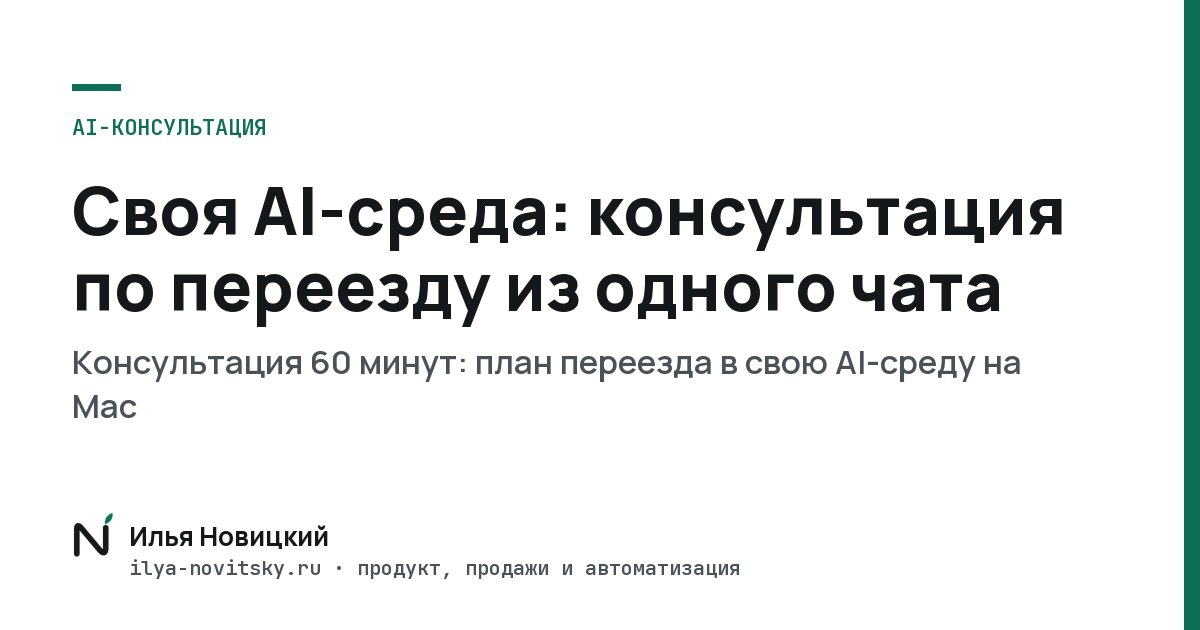
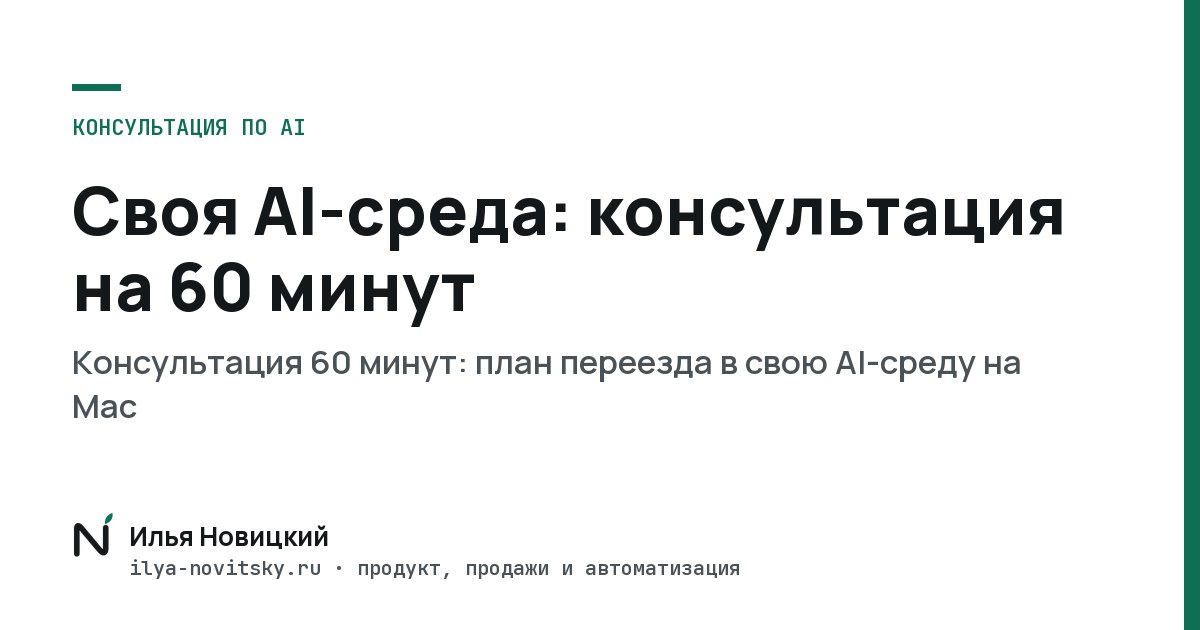
Прогонка сайта по v8: 34 правки (без обесценивания, без абсолютов, обещания по работе, «вы», без бесплатной работы), «Своя AI-среда» в поиске для обеих аудиторий; в меню «Консультация по AI» (#131)

Changed region(s): [[0.0617, 0.3921, 0.8325, 0.5127], [0.0617, 0.181, 0.2775, 0.2111]]

diff --git a/content/pages/kak-my-rabotaem.ts b/content/pages/kak-my-rabotaem.ts
@@ -29,7 +29,7 @@ export const steps: ({ id: string; title: string; meta: string; lead: string; pr
 		label: "Чертёж системы",
 		h2: "План, по которому строят, а не переделывают",
 		lead: "Вы видите, как будет работать система и сколько она стоит, ещё до разработки. Чертёж ваш: строить по нему можно со мной или без меня.",
-		gets: { label: "На руках: документ проекта", items: ["разбор задачи: для кого это, зачем и как будет зарабатывать;", "схема: из каких частей состоит система и как они связаны;", "что строить и в каком порядке, со сроками;", "экономика: сколько вложить, на чём зарабатывать и расчёт окупаемости;", "для продукта: макет, по которому можно пройти и показать клиентам до разработки;", "план сборки, который можно отдать любому исполнителю."] },
+		gets: { label: "На руках: документ проекта", items: ["разбор задачи: для кого это, зачем и как будет зарабатывать;", "схема: из каких частей состоит система и как они связаны;", "что строить и в каком порядке, со сроками;", "экономика: сколько вложить, на чём зарабатывать и расчёт окупаемости;", "для продукта: макет, по которому можно пройти и показать клиентам до разработки;", "план сборки, который можно отдать другому исполнителю."] },
 		how: { label: "Как проходит", steps: [{ b: "Неделя 1.", t: "Разговоры, доступы, разбор того, что есть, и рынка." }, { b: "Неделя 2.", t: "Решения, экономика и прототип, если речь о продукте." }, { b: "Неделя 3.", t: "Если объём большой: правки и итоговый созвон." }], note: "Каждый шаг виден в документе проекта, и дальше идём только после вашего «ок»." },
 		need: "два-три разговора, ответы на вопросы, доступы и ваше решение на каждом шаге.",
 		fitTitle: "Подойдёт, если",
@@ -47,7 +47,7 @@ export const steps: ({ id: string; title: string; meta: string; lead: string; pr
 		lead: "Спроектированное запускается и развивается дальше: продукт, система продаж, автоматизация. Строю сам, поэтому между идеей и результатом нет цепочки исполнителей.",
 		gets: { label: "Что получаете", items: ["запуск того, что спроектировали: продукт, сайт, путь клиента до оплаты, CRM и автоматизация;", "доработки и новые функции по мере роста;", "итоги месяца в цифрах и цели на следующий."], example: "[Как ведение выглядит на примере →](/primer-chertezha#vedenie)" },
 		how: { label: "Границы роли", steps: [{ b: "Работаем как партнёры, инициатива с моей стороны.", t: "Цели на месяц ставим вместе. Я сам предлагаю следующие шаги, а ваши идеи и задачи с радостью обсуждаем и штурмим вместе." }, { b: "Один плановый созвон в неделю.", t: "Остальное в переписке, связь в рабочие дни." }, { b: "Объём роли записан в договоре.", t: "Нужно больше, расширяем роль, а не считаем часы." }, { b: "Беру одного клиента на ведение.", t: "Другую часть недели занимают свои продукты." }] },
-		need: "решения по ключевым вопросам, доступы и ваша экспертиза о продукте. Идеи и задачи приносите в любой момент.",
+		need: "решения по ключевым вопросам, доступы и ваша экспертиза о продукте. Идеи и задачи приносите, когда появятся: обсудим на созвоне или в переписке.",
 		fitTitle: "Подойдёт, если",
 		fit: ["есть чертёж или готовый план, и пора его внедрять;", "система уже работает, а развивать её некому;", "нужен человек, который и продукт развивает, и систему продаж строит, а нанимать двоих в штат рано."],
 		notTitle: "Чего не будет",
@@ -97,7 +97,7 @@ export const process = typo({
 			{ title: "Продукт", desc: "От макета до работающей версии и доработок по мере роста.", items: ["макет и первая версия продукта", "приложение или веб-сервис", "AI-ассистент для клиентов"] },
 			{ title: "Как вас видят", desc: "Чтобы клиент сразу понимал, что вы продаёте и почему вам.", items: ["сайт и лендинги", "контент-план и тексты", "автопубликация постов и рилсов"] },
 			{ title: "Путь клиента до оплаты", desc: "Чтобы заявка не терялась по дороге и клиент возвращался.", items: ["CRM и воронка продаж", "Telegram-бот и обработка заявок", "рассылки и напоминания", "повторные продажи"] },
-			{ title: "Цифры и автоматизация", desc: "Чтобы решения принимались по данным, а рутина шла сама.", items: ["аналитика и отчёты", "разбор трафика", "автоматизация рутины"] },
+			{ title: "Цифры и автоматизация", desc: "Чтобы вы решали по цифрам, а рутина шла сама.", items: ["аналитика и отчёты", "разбор трафика", "автоматизация рутины"] },
 		],
 	},
 	final: {

diff --git a/content/pages/home.ts b/content/pages/home.ts
@@ -52,7 +52,7 @@ export const home = typo({
 		lead: "Рутина держится на вас, а подрядчики делают каждый своё. Свести всё вместе и проверить, работает ли, тоже приходится вам.",
 		cards: [
 			{ title: "Всё держится на вас", text: "Без вас не уходит ни одно предложение и не собирается ни один отчёт. Заявки теряются в чатах, а до автоматизации не доходят руки.", punch: "Текучка съедает день, а то, что двигает бизнес вперёд, откладывается на потом.", stat: { num: "43%", t: "владельцев малого и среднего бизнеса тратят на операционку и бумаги больше 4 часов в день" } },
-			{ title: "Каждый делает своё, а вместе не работает", text: "Вы раздаёте задачи подрядчикам: сайт студии, тексты фрилансеру, бота третьему. А каждый отвечает только за свою часть и продаёт своё.", punch: "Рутины не стало меньше: теперь это рутина управления подрядчиками.", stat: { num: "58%", t: "рабочего времени в компаниях уходит на согласования, поиск файлов и статусы, а не на саму работу" } },
+			{ title: "Каждый делает своё, а вместе не работает", text: "Вы раздаёте задачи подрядчикам: сайт студии, тексты фрилансеру, бота третьему. А каждый отвечает только за свою часть.", punch: "Рутины не стало меньше: теперь это рутина управления подрядчиками.", stat: { num: "58%", t: "рабочего времени в компаниях уходит на согласования, поиск файлов и статусы, а не на саму работу" } },
 			{ title: "Продукт сделали, а платящих клиентов нет", text: "Месяцы разработки и зарплат, запуск, а люди заходят и уходят. Непонятно, что не так: продукт, цена или проблема, которая никого не волнует.", punch: "Это можно было проверить до разработки, быстрее и дешевле.", stat: { num: "42%", t: "закрывшихся стартапов называют главной причиной то, что продукт не нужен рынку" } },
 			{ title: "Идея есть, но непонятно, что строить первым", text: "Хочется новый продукт, сервис или направление, но сколько это стоит, кому продавать и с чего начать, ясности нет.", punch: "Поэтому решение откладывается, и всё остаётся как есть." },
 		],
@@ -130,8 +130,8 @@ export const home = typo({
 			{ label: "AI-инструменты · черновая работа", title: "Как сделать быстро", items: ["исследование рынка и отзывов клиентов", "черновики текстов и прототипы", "типовые ответы, отчёты, сбор данных", "процессы, которые одинаково работают на 10 и на 1000 клиентов"] },
 			{ label: "Вы получаете", title: "Проверенная работа", items: ["каждый шаг проверен человеком, а не нейросетью", "меньше переделок: тупики видно заранее", "оплата за готовый этап, без почасовки"], me: true },
 		],
-		fable: { q: "Как ни полезна вещь, — цены не зная ей, невежда про неё свой толк всё к худу клонит", src: "И. А. Крылов, «Мартышка и очки». Про AI в неумелых руках" },
-		closing: "Сначала порядок и расчёт, потом AI. Иначе это дорогая игрушка.",
+		fable: { q: "Как ни полезна вещь, — цены не зная ей, невежда про неё свой толк всё к худу клонит", src: "И. А. Крылов, «Мартышка и очки». Про инструмент без опыта и порядка" },
+		closing: "Сначала порядок и расчёт, потом AI. Тогда он экономит время и деньги.",
 	},
 
 

diff --git a/content/pages/sreda.ts b/content/pages/sreda.ts
@@ -6,14 +6,14 @@ import { typo } from "@/lib/typo";
 
 export const sreda = typo({
 	meta: {
-		title: "Своя AI-среда: консультация по переезду из одного чата",
-		description: "Ваш контекст, роли и правила работы с AI у вас, а не в чужом чате. Консультация 60 минут, 10 000 ₽: план переезда в свою среду на Mac.",
+		title: "Своя AI-среда: консультация на 60 минут",
+		description: "Для тех, кто начинает с нуля или уже работает в одном чате: разбираем вашу работу за час, а в тот же день вы получаете инструкцию для своего Mac. 10 000 ₽.",
 	},
 	hero: {
 		crumb: "Своя AI-среда",
 		kicker: "Консультация · Своя AI-среда",
 		h1: "Своя AI-среда: команда агентов, которая не зависит от одного сервиса",
-		lead: "Соберём её с нуля или перенесём то, что уже накоплено в чатах: проекты, инструкции, контекст. Файлы и правила лежат у вас.",
+		lead: "Разберём, как собрать её с нуля или перенести то, что уже накоплено в чатах: проекты, инструкции, контекст. Файлы и правила лежат у вас.",
 		sub: "За 60 минут разбираем вашу работу, а в тот же день вы получаете инструкцию для своего Mac: что поставить, как устроить роли и память и с чего начать.",
 		facts: [
 			{ num: "60 минут", text: "онлайн" },
@@ -42,7 +42,7 @@ export const sreda = typo({
 			{ title: "Начинаете с нуля", items: [
 				{ b: "Хочется команду агентов, как у других", t: "Чтобы один чат раздавал задачи, а агенты писали, искали и проверяли." },
 				{ b: "Инструментов много, порядка нет", t: "Непонятно, что из этого нужно именно вам и с чего начать, чтобы не собрать лишнее." },
-				{ b: "Не хочется сразу привязываться к одному сервису", t: "Платить за подписку и строить всё внутри чужого чата." },
+				{ b: "Не хочется сразу привязываться к одному сервису", t: "Чтобы не платить за подписку и не строить всё внутри чужого чата." },
 			] },
 			{ title: "Уже работаете в чате", items: [
 				{ b: "Всё живёт в одном сервисе", t: "Проекты, память и инструкции внутри чата, а скачанные файлы лежат в «Загрузках» вперемешку." },
@@ -103,7 +103,7 @@ export const sreda = typo({
 		h2: "Подойдёт тем, у кого AI уже рабочий инструмент",
 		lead: "«С нуля» значит без своей среды. Если с нейросетями вы только знакомитесь, сначала поработайте в обычном чате.",
 		yesTitle: "Подойдёт, если",
-		yes: ["работаете с AI каждый день, и накопились месяцы контекста;", "вы собственник или сильный специалист: стратег, консультант, руководитель направления;", "работаете на Mac;", "хотите понимать свою среду и управлять ею сами."],
+		yes: ["работаете с AI каждый день: в одном чате или пока без своей среды;", "вы собственник или сильный специалист: стратег, консультант, руководитель направления;", "работаете на Mac;", "хотите понимать свою среду и управлять ею сами."],
 		noTitle: "Не подойдёт, если",
 		no: ["работаете на Windows;", "с нейросетями только знакомитесь;", "нужно внедрить AI на всю команду;", "ждёте один в один как в Claude."],
 		notTitle: "Чего не делаем",

diff --git a/content/pages/common.ts b/content/pages/common.ts
@@ -44,12 +44,12 @@ export const common = typo({
 
 	picker: {
 		h3: "Какая ситуация ближе к вашей?",
-		sub: "Выберите, и я подскажу, с какого шага начать. Цены шагов выше.",
+		sub: "Выберите, и я подскажу, с какого шага начать.",
 		options: [
 			{ q: "Заявок мало, или они теряются по дороге", a: `**Аудит и план действий.** Найду, где уходят клиенты и деньги, и скажу, что чинить первым.` },
 			{ q: "Подрядчиков несколько, а вместе не работает", a: `**Аудит и план действий.** Разберу, что из сделанного работает, а что нет, и что делать дальше.` },
 			{ q: "Есть идея продукта, но страшно вкладываться", a: `**Аудит и план действий.** Разберём, стоит ли её строить, для кого и на чём она может зарабатывать, до того как тратить на разработку.` },
-			{ q: "Хочу навести порядок во всём и расти", a: `**Чертёж системы.** Что есть, где утекают деньги, что делать по порядку и расчёт окупаемости. Сомневаетесь? Начните с аудита, его стоимость войдёт в цену чертежа.` },
+			{ q: "Хочу навести порядок во всём и расти", a: `**Чертёж системы.** Как будет устроена вся система, что строить по порядку и расчёт окупаемости. Сомневаетесь? Начните с аудита, его стоимость войдёт в цену чертежа.` },
 			{ q: "Всё работает, но вести это некому", a: `**Ведение.** Развиваю продукт и систему продаж: цели на месяц вместе, раз в неделю созвон и отчёт.` },
 		],
 	},
@@ -92,7 +92,7 @@ export const common = typo({
 		crumb: "Документы",
 		edition: "Редакция от 16.10.2026.",
 		docs: [
-			{ slug: "offer", title: "Публичная оферта на оказание услуг", description: "Условия оказания услуг Ильи Новицкого: аудит и план действий, чертёж системы, ведение и наставничество. Цены, порядок оплаты, возврат и ответственность." },
+			{ slug: "offer", title: "Публичная оферта на оказание услуг", description: "Условия оказания услуг Ильи Новицкого: аудит и план действий, чертёж системы и ведение. Цены, порядок оплаты, возврат и ответственность." },
 			{ slug: "privacy", title: "Политика обработки персональных данных", description: "Какие данные собирает сайт ilya-novitsky.ru, зачем, где они хранятся, сколько и как их защищают. Права посетителя и контакты для запросов." },
 			{ slug: "consent", title: "Согласие на обработку персональных данных", description: "Согласие посетителя сайта ilya-novitsky.ru на обработку данных для статистики посещений: какие данные, цель, срок и как отозвать." },
 		],

diff --git a/content/pages/keisy.ts b/content/pages/keisy.ts
@@ -73,7 +73,7 @@ export const keisy = typo({
 		cards: [
 			{ title: "Под каждую задачу свой инструмент", text: "Исследование, тексты, прототип и код делают разные AI-инструменты, а решаю, что строить, я. Так собраны Vlinx за 2 дня и основа GAZE за 2 недели." },
 			{ title: "Ошибки ищу до того, как работа дойдёт до вас", text: "У проекта свои правила и эталон стиля. Ничего не считается готовым без проверки по списку, перед каждой правкой сохраняется копия." },
-			{ title: "Рутина идёт сама, даже ночью", text: "Проверки, отчёты и резервные копии запускаются по расписанию, AI-помощники отвечают клиентам и напоминают круглосуточно. Сам я на связи в рабочие дни." },
+			{ title: "Рутина идёт сама, даже ночью", text: "Проверки, отчёты и резервные копии запускаются по расписанию, AI-помощники отвечают клиентам и напоминают в любое время, без вашего участия. Сам я на связи в рабочие дни." },
 			{ title: "Вы видите каждый шаг", text: "Исследование, решения и план лежат в одном документе. Вы утверждаете шаг, и только после этого работа идёт дальше." },
 		],
 		hood: {
@@ -87,7 +87,7 @@ export const keisy = typo({
 			tri: [
 				{ tag: "подключения", title: "Работают прямо в ваших сервисах", text: "почта · календарь · Google Диск · CRM · браузер" },
 				{ tag: "страховки", title: "Срабатывают сами", text: "проверка перед «готово» · копия перед правкой · к паролям доступа нет" },
-				{ tag: "без меня", title: "Идёт по расписанию", text: "10 задач сами · агенты отвечают и напоминают круглосуточно" },
+				{ tag: "без меня", title: "Идёт по расписанию", text: "10 задач сами · ответы и напоминания без участия человека" },
 			],
 			base: { title: "Живой документ проекта", text: "исследование, решения, тексты и план по шагам · у каждой цифры источник · история каждой правки в GitHub" },
 		},

diff --git a/content/pages/faq.ts b/content/pages/faq.ts
@@ -6,7 +6,7 @@ import { prices as P } from "@/config/prices";
 export const faq = typo([
 	{ q: "Почему аудит платный?", a: `**Потому что это настоящая работа, а не презентация.** Вы получаете письменный разбор, и он ваш. Если пойдём дальше, его стоимость войдёт в цену чертежа.` },
 	{ q: "А если результата не будет?", a: "**Продажи не может гарантировать никто, и я тоже.** Делаю то, что обещал: если что-то не работает, меняю план и переделываю. Платите по шагам и рискуете только одним. Условия в [оферте](/offer)." },
-	{ q: "Вы работаете один. Что если с вами что-то случится?", a: "**Всё, что мы делаем, принадлежит вам,** плюс план и отчёт за каждую неделю. Любой специалист продолжит с того места, где мы остановились." },
+	{ q: "Вы работаете один. Что если с вами что-то случится?", a: "**Всё, что мы делаем, принадлежит вам,** плюс план и отчёт за каждую неделю. Другой специалист продолжит с того места, где мы остановились." },
 	{ q: "Сколько времени это займёт у меня?", a: "**Немного.** На аудит нужен один разговор и ответы на вопросы. Дальше от вас короткие «да» или «поправь»." },
 	{ q: "Чем вы отличаетесь от агентства или фрилансера?", a: "**Они делают свою часть, я проектирую систему целиком и строю её сам.** Между нами нет цепочки менеджеров: решения принимает тот, кто делает." },
 	{ q: "Сколько я на этом сэкономлю?", a: "**Посчитаем на аудите.** Сколько процесс стоит сейчас с учётом зарплат, подрядчиков и вашего времени, и сколько будет после. Если экономии нет, так и скажу." },

diff --git a/content/pages/razbor.ts b/content/pages/razbor.ts
@@ -95,10 +95,10 @@ export const razbor = typo({
 		lead: "Разборы по анкете стоят от нескольких сотен рублей, и это честный формат для первого знакомства. Аудит делает другую работу.",
 		cheap: { title: "Разбор по анкете", rows: [
 			{ k: "Данные", v: "ваши ответы на вопросы" },
-			{ k: "Результат", v: "общие советы по шаблону" },
+			{ k: "Результат", v: "рекомендации по вашим ответам" },
 			{ k: "Порядок", v: "список того, что можно сделать" },
 			{ k: "Работа", v: "шаблон или короткий созвон" },
-			{ k: "Дальше", v: "предложение следующей покупки" },
+			{ k: "Дальше", v: "понятно, нужен ли полный аудит" },
 		] },
 		audit: { title: "Аудит и план действий", rows: [
 			{ k: "Данные", v: "ваши CRM, переписки, реклама и сайт: смотрю сам" },
@@ -107,7 +107,7 @@ export const razbor = typo({
 			{ k: "Работа", v: "3–4 рабочих дня и разговор с вами и с тем, кто отвечает клиентам" },
 			{ k: "Дальше", v: "отчёт остаётся у вас; если закажете чертёж, 40 000 ₽ входят в его цену" },
 		] },
-		note: "Анкета отвечает на то, что вы думаете о бизнесе. Цифры показывают, где на самом деле теряются деньги: в этом примере собственник был уверен, что дело в рекламе.",
+		note: "Анкета отвечает на то, что вы думаете о бизнесе. Цифры показывают, где теряются деньги: в этом примере собственник был уверен, что дело в рекламе.",
 	},
 	you: {
 		num: "03",

diff --git a/content/pages/blog.ts b/content/pages/blog.ts
@@ -40,6 +40,6 @@ export const blog = typo({
 		product: { title: "Узнайте, кому нужен ваш продукт и что ему продавать", text: "Начните с аудита: продукт, предложение и первые клиенты разобраны, и понятно, что делать первым. Разбор остаётся у вас.", button: "Написать в Telegram", href: TG, under: T },
 		path: { title: "Узнайте, где теряются заявки и что чинить первым", text: "Ваш путь клиента от первого касания до оплаты на одной схеме: где самые дорогие дыры и в каком порядке их закрывать.", button: "Написать в Telegram", href: TG, under: T },
 		price: { title: "Предложение и лестница цен под ваш продукт", text: "Вы увидите, как сейчас звучит ваше предложение, с чем его сравнивают клиенты и какая лестница цен вам подойдёт.", button: "Написать в Telegram", href: TG, under: T },
-		repeat: { title: "Посмотрю, куда уходят клиенты после первой покупки", text: "Разберу, что происходит с клиентом после оплаты, и скажу, где проще всего вернуть тех, кто уже купил.", button: "Написать в Telegram", href: TG, under: T },
+		repeat: { title: "Узнайте, куда уходят клиенты после первой покупки", text: "Разберу, что происходит с клиентом после оплаты, и скажу, где проще всего вернуть тех, кто уже купил.", button: "Написать в Telegram", href: TG, under: T },
 	} satisfies Record<Cta, { title: string; text: string; button: string; href: string; under: string }>,
 });

diff --git a/content/pages/primer.ts b/content/pages/primer.ts
@@ -29,7 +29,7 @@ export const primer = typo({
 		items: [
 			{ num: "42%", t: "закрывшихся стартапов назвали главной причиной то, что продукт не нужен рынку. Это можно увидеть до сборки." },
 			{ num: "0,26–4,4 млн ₽", t: "просят студии за сайт или продукт. Каждая переделка идёт сверху, поэтому порядок решений важнее скорости." },
-			{ num: "до 1 млн ₽", t: "стоит у студий отдельная проработка, и её обычно продают вместе со своей разработкой. Чертёж у меня от 120 000 ₽, строить по нему можно со мной или с любым исполнителем." },
+			{ num: "до 1 млн ₽", t: "стоит у студий отдельная проработка, и её обычно продают вместе со своей разработкой. Чертёж у меня от 120 000 ₽, строить по нему можно со мной или с другим исполнителем." },
 		],
 		sources: "Источники: CB Insights, разбор 101 закрывшегося стартапа; открытые прайсы студий осенью 2026, расчёт в статье [«Сколько стоит MVP в 2026 году»](/blog/skolko-stoit-mvp).",
 	},

diff --git a/src/config/site.ts b/src/config/site.ts
@@ -20,19 +20,19 @@ export const site = {
 	nav: [
 		{ href: "/kak-my-rabotaem", label: "Как мы работаем" },
 		{ href: "/keisy", label: "Кейсы" },
-		{ href: "/svoya-ai-sreda", label: "AI-консультация" },
+		{ href: "/svoya-ai-sreda", label: "Консультация по AI" },
 		{ href: "/blog", label: "Блог" },
 	],
 	menu: [
 		{ href: "/kak-my-rabotaem", label: "Как мы работаем" },
 		{ href: "/keisy", label: "Кейсы" },
-		{ href: "/svoya-ai-sreda", label: "AI-консультация" },
+		{ href: "/svoya-ai-sreda", label: "Консультация по AI" },
 		{ href: "/blog", label: "Блог" },
 	],
 	footerNav: [
 		{ href: "/kak-my-rabotaem", label: "Как мы работаем" },
 		{ href: "/keisy", label: "Кейсы" },
-		{ href: "/svoya-ai-sreda", label: "AI-консультация" },
+		{ href: "/svoya-ai-sreda", label: "Консультация по AI" },
 		{ href: "/blog", label: "Блог" },
 		{ href: "/book", label: "Книга" },
 	],

diff --git a/src/app/svoya-ai-sreda/page.tsx b/src/app/svoya-ai-sreda/page.tsx
@@ -14,7 +14,7 @@ import Start from "@/components/sreda/Start";
 export const metadata: Metadata = pageMeta(sreda.meta, "/svoya-ai-sreda", "svoya-ai-sreda");
 
 // Своя AI-среда (16.10): консультация как вход. Ситуация → что получите → как проходит → больше → кому → начать.
-// Отдельный продукт, не смешиваем с аудитом, чертежом и ведением: в меню «AI-консультация» (22.10), на главной не стоит. Блоки — components/sreda.
+// Отдельный продукт, не смешиваем с аудитом, чертежом и ведением: в меню «Консультация по AI» (22.10), на главной не стоит. Блоки — components/sreda.
 export default function Page() {
 	const h = sreda.hero;
 	return (

diff --git a/scripts/og/generate_og.py b/scripts/og/generate_og.py
@@ -13,7 +13,7 @@ W, H = 1200, 630
 INK, INK2, ACC = '#15181a', '#4b5257', '#0F6E56'
 SECTION = {'home': 'Илья Новицкий', 'keisy': 'Кейсы', 'kak-my-rabotaem': 'Как мы работаем', 'nastavnichestvo': 'Наставничество',
            'blog': 'Блог', 'book': 'Книга', 'primer-chertezha': 'Пример чертежа', 'primer-audita': 'Пример аудита',
-           'svoya-ai-sreda': 'AI-консультация', 'offer': 'Документы', 'privacy': 'Документы', 'consent': 'Документы'}
+           'svoya-ai-sreda': 'Консультация по AI', 'offer': 'Документы', 'privacy': 'Документы', 'consent': 'Документы'}
 
 def font(name, size, weight=None):
     f = ImageFont.truetype(f'{NM}/{name}', size)
